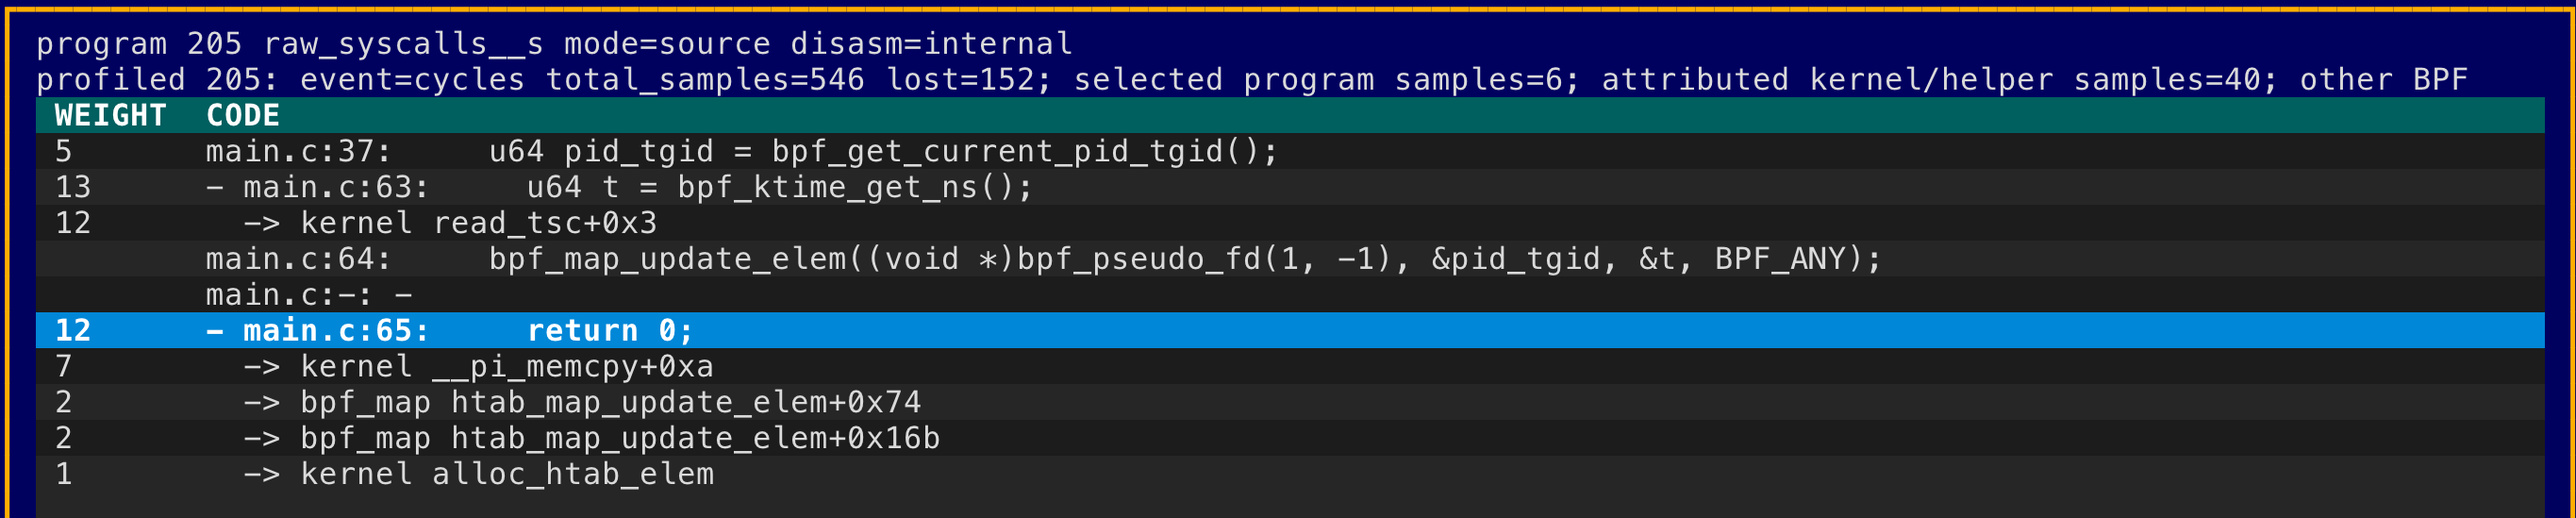
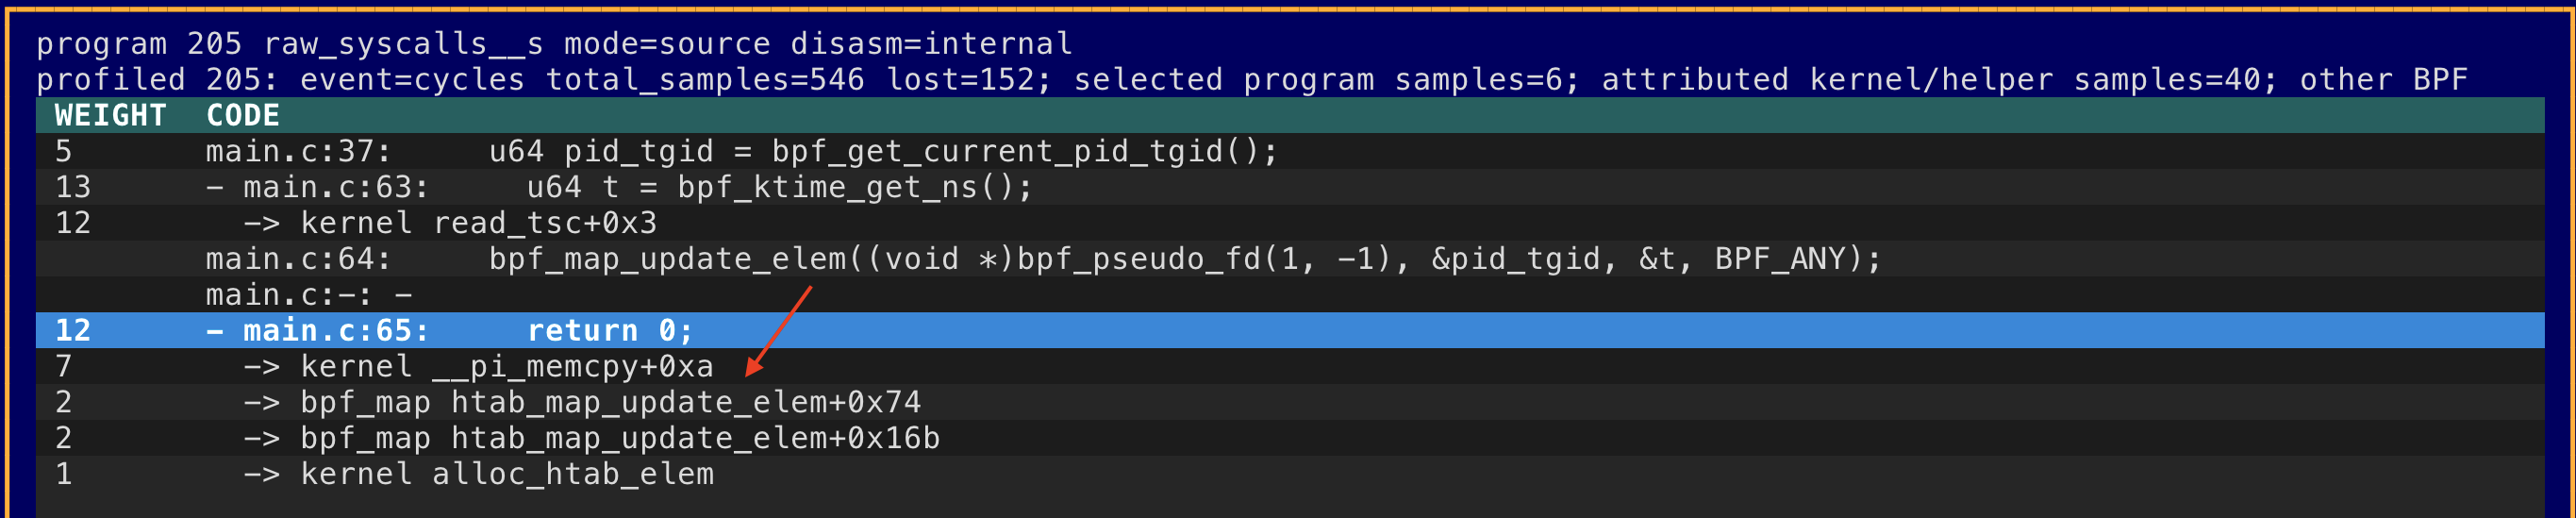
description and install instructions

Changed region(s): [[0.0, 0.0, 1.0, 1.0]]

diff --git a/README.md b/README.md
@@ -1,76 +1,73 @@
-# brr: eBPF Runtime Reporter and Profiler
+# eBPF Runtime Reporter and Profiler - brr
 
-`brr` is the eBPF Runtime Reporter: a compact CLI and Textual TUI for listing,
-inspecting, and profiling loaded Linux eBPF objects.
+**`brr`** is an eBPF program Runtime Reporter _and_ Profiler.
 
-It is meant to feel like `ps` and `top` for eBPF. The default command prints one
-loaded eBPF program per row; subcommands show maps, links, BTF objects, runtime
-deltas, translated instructions, source metadata, and BPF JIT CPU samples.
+Since eBPF programs are pieces of machine code residing in (kernel) address space, you can profile them with standard `perf` just like any other kernel function. However, perf alone won't show you other useful metrics like number of executions and average eBPF program runtime, like [bpftop](https://github.com/jfernandez/bpftop) does.
 
-`brr` talks to the kernel directly through `bpf()` and `perf_event_open`. It
-does not shell out to `perf`.
+I wanted to unify both approaches, display the bpftop-style call count & probe latency, with the ability to drill down into where _inside_ the eBPF program most of the time is spent. This tool is not calling the `perf` command under the hood, but uses `perf_event_open()` API directly. Also, it uses the `bpf()` syscall, for things like enabling eBPF program stats accounting (BPF\_ENABLE\_STATS) while `brr` is running. 
 
+I built this for my own use, but this tool/idea may be useful for others too. It's entirely AI-coded by Codex in Python using my specs & tests. It's good enough for my [performance testing](https://tanelpoder.com/posts/optimizing-ebpf-biolatency-accounting/) environments (not so sure about production).
+
+1. [Jump to Installation section](#install)
+1. [Jump to command line options](#command-line-options)
+
+
+## Usage
+
+`brr` runs in two modes, **`brr top`** is an interactive TUI and other options like **`brr activity`**, **`brr profile`** produce profiles in plain text output (including JSON, CSV). See [EXAMPLE\_OUTPUT.md](EXAMPLE_OUTPUT.md) for text mode profiling examples.
+
+Here are some screenshots from running `brr top` on a machine with some sysbench & fio stress-test workloads, while multiple different eBPF monitoring/observability programs were enabled.
+
+The landing page shows the bpftop-style program execution summary. You can press "h" to display the help menu.
 
 ![](docs/images/brr-top-entrypoint-trimmed.png)
 
+I had configured my `xcapture` tool to monitor all system calls of all threads in an efficient way (tracking + sampling, not tracing), we are apparently doing 2M syscalls/s on this machine and the `xcap_sys_enter` probe used 25% of _one CPU_ time in aggregate.
+
+Now you can use arrow keys to navigate to the program of interest and press enter to see its source code snippets (coming from each program's BTF info if available). 
+
+I picked the `get_tasks` program as it's a longer and more complex program. It's an eBPF task iterator doing _passive sampling_ of all system threads' states, without injecting any tracepoints or probes into their critical path.
+
 ![](docs/images/ebpf-task-local-storage.png)
+
+In the image above, you see a column WEIGHT, this is just the number of perf CPU samples that fell into that specific code line.
+
+You also see that some code lines have a little "+" sign in front of them. These are the CPU samples where we happened to be in some Linux _kernel_ function (not our eBPF program) - but that kernel function call was done by our eBPF program. You can press "e" to expand (and "c" to collapse) just like in perf to see the deeper stack under that eBPF program line.
+
+So basically, I'm doing something like `perf record -g --call-graph ...` here, whenever I see a CPU sample in kernel function, I walk up the call-graph and see if the parent (or grandparent) function is our eBPF program of interest. eBPF programs can call (or fall) into Linux built-in kernel functions, as there are eBPF helper functions and other system activity like interrupts, page faults, spinlock gets, etc.
+
+Here's an example with a `lock_xadd()` function call immediately catching (my) eyes:
 
 ![](docs/images/ebpf-lock-add-tsc-collapsed.png)
 
+But when I expand the profile with "e", I see it's actually another function call `bpf_ktime_get_ns()` passed into the `lock_xadd(...)` as an argument that calls `read_tsc()` that takes most of the time under the original function call:
+
 ![](docs/images/ebpf-lock-add-tsc-expanded.png)
+
+Here are two examples from the `syscount` command (part of bcc-tools) when running lots of syscalls concurrently:
 
 ![](docs/images/ebpf-hashtable-collapsed.png)
 
+When expanded, we see that most of the samples fall under `__pi_memcpy` Linux kernel function:
+
 ![](docs/images/ebpf-hashtable-expanded.png)
+
+When updating shared eBPF hash-maps under high concurrency (lots of events & lots of CPUs), then you might start seeing various "lock" functions showing up:
 
 ![](docs/images/ebpf-hashtable-lock-bucket.png)
 
-![](docs/images/ebpf-copy-from-user-task.png)
+With modern eBPF _sleepable_ programs (that allow reading other processes memory), you might even start seeing kernel spin lock functions and page fault handlers showing up in your profiles:
 
 ![](docs/images/ebpf-spinlock.png)
 
+You can also press "e" on the folded/hidden lines showing `"..."` to expand the full source code (even without profile sample hits). Note that this source display is rendered from the actual binary representation, not the original source code file (compiler, JIT can move things around). So you may see weird source line ordering in the full program display.
 
-
-
-
-
-
-
-## Output
-
-Default program listing:
-
-```text
-ID  TYPE       NAME          XLATED_BYTES  JITED_BYTES
-42  tracing    trace_execve  744           512
-48  xdp        xdp_pass      96            64
-53  cgroup_skb allow_egress  312           224
-```
-
-Runtime activity:
-
-```text
-ID  TYPE     NAME          XLATED_BYTES  JITED_BYTES  RUN_CNT_DELTA  RUN_TIME_NS_DELTA  AVG_RUN_TIME_NS
-48  xdp      xdp_pass      96            64           1842           714110             387
-42  tracing  trace_execve  744           512          18             28422              1579
-```
-
-Use `-x` or `--extended` to include extra columns such as `TAG` and `PINNED`.
-Use `-c` or `--cumulative` with `activity` and `top` to include cumulative
-runtime metrics.
-
-JSON and CSV output are available for scripting:
-
-```bash
-sudo brr --json --pretty
-sudo brr --csv map
-```
 
 ## Install
 
-### From source with uv
+### From Python source with uv
 
-Requires Linux, Python 3.11 or newer, and `uv`.
+Requires Linux, Python 3.11 or newer, and **uv** package manager. The install instructions for uv [are here](https://docs.astral.sh/uv/getting-started/installation/).
 
 ```bash
 git clone https://github.com/tanelpoder/brr.git
@@ -79,14 +76,38 @@ uv sync
 sudo env PATH="$PATH" uv run brr
 ```
 
-To install a local command from the checkout:
+To build a self-contained single binary `brr` that you can run without `uv`:
 
 ```bash
 uv tool install .
 sudo env PATH="$PATH" brr
 ```
 
-### Debian or Ubuntu
+Once you have the `brr` file, it's just like any other binary, you can copy it into any directory you'd like. The env tricks are not needed when you put the `brr` stand-alone binary to a directory that is in the PATH of sudo/root users (or just use fully qualified pathname when executing the program).
+
+
+### Download Stand-alone binaries for ARM and X86
+
+If you don't want to build from source and are happy to run binaries from random internet pages like this one, then you can download the latest standalone binary for your platform from the [releases](https://github.com/tanelpoder/brr/releases) page.
+
+On x86:
+
+```
+curl https://github.com/tanelpoder/brr/releases/download/v0.4.1/brr-0.4.1-linux-x86_64 -o brr
+chmod u+x brr
+sudo ./brr
+```
+
+On ARM:
+
+```
+curl https://github.com/tanelpoder/brr/releases/download/v0.4.1/brr-0.4.1-linux-aarch64 -o brr
+chmod u+x brr
+sudo ./brr
+```
+
+
+### Install Debian or Ubuntu Packages
 
 Download the DEB for your architecture from the GitHub release, then install it:
 
@@ -100,7 +121,7 @@ On ARM64:
 sudo dpkg -i brr_0.4.1-1_arm64.deb
 ```
 
-### Fedora, RHEL, or compatible RPM systems
+### Install on Fedora, RHEL and RPM-compatible systems
 
 Download the RPM for your architecture from the GitHub release, then install it:
 
@@ -117,10 +138,56 @@ sudo rpm -Uvh brr-0.4.1-1.aarch64.rpm
 The packaged command installs as `/usr/bin/brr` and contains a standalone
 binary. It does not depend on system Python.
 
-## Usage
+## Command line options
 
 Most useful commands need root or equivalent Linux capabilities because they
 open BPF objects and CPU-wide perf events.
+
+
+Current help. You can run --help also for subcommands to get more detail, like `brr top --help`.
+
+```
+$ sudo brr --help
+usage: brr [-h] [--bpffs BPFFS] [--json] [--csv] [--pretty] [-x] [-c] [-V]
+           {prog,activity,top,map,link,btf,perf-events,dump,dump-compare,profile} ...
+
+eBPF Runtime Reporter and Profiler by Tanel Poder (tanelpoder.com).
+
+positional arguments:
+  {prog,activity,top,map,link,btf,perf-events,dump,dump-compare,profile}
+    prog                List loaded eBPF programs.
+    activity            Show eBPF program runtime deltas.
+    top                 Show the live eBPF top TUI.
+    map                 List loaded eBPF maps.
+    link                List loaded eBPF links.
+    btf                 List loaded BTF objects.
+    perf-events         List brr-supported perf events openable on this host.
+    dump                Dump translated instructions and source-line metadata for a program.
+    dump-compare        Compare brr dump output with bpftool source-line metadata.
+    profile             Profile BPF JIT execution with native perf_event_open sampling.
+
+options:
+  -h, --help            show this help message and exit
+  --bpffs BPFFS         bpffs mount path used for pinned object enrichment.
+  --json                Emit machine-readable JSON instead of text.
+  --csv                 Emit machine-readable CSV instead of text.
+  --pretty              Pretty-print JSON output. Requires --json.
+  -x, --extended        Show extended TAG and PINNED columns in text output.
+  -c, --cumulative      Show cumulative runtime metrics where available in text output.
+  -V, --version         Show version number and exit.
+
+```
+
+Open the interactive top-style TUI:
+
+```bash
+sudo brr top
+sudo brr top -x
+sudo brr top -c
+```
+
+Inside `brr top`, press `x` to toggle extended columns and `c` to toggle
+cumulative columns.
 
 List loaded eBPF programs:
 
@@ -151,17 +218,6 @@ sudo brr activity --duration 2 --limit 10
 sudo brr activity -x --duration 2
 sudo brr activity -c --duration 2
 ```
-
-Open the interactive top-style TUI:
-
-```bash
-sudo brr top
-sudo brr top -x
-sudo brr top -c
-```
-
-Inside `brr top`, press `x` to toggle extended columns and `c` to toggle
-cumulative columns.
 
 Inspect a program by ID:
 